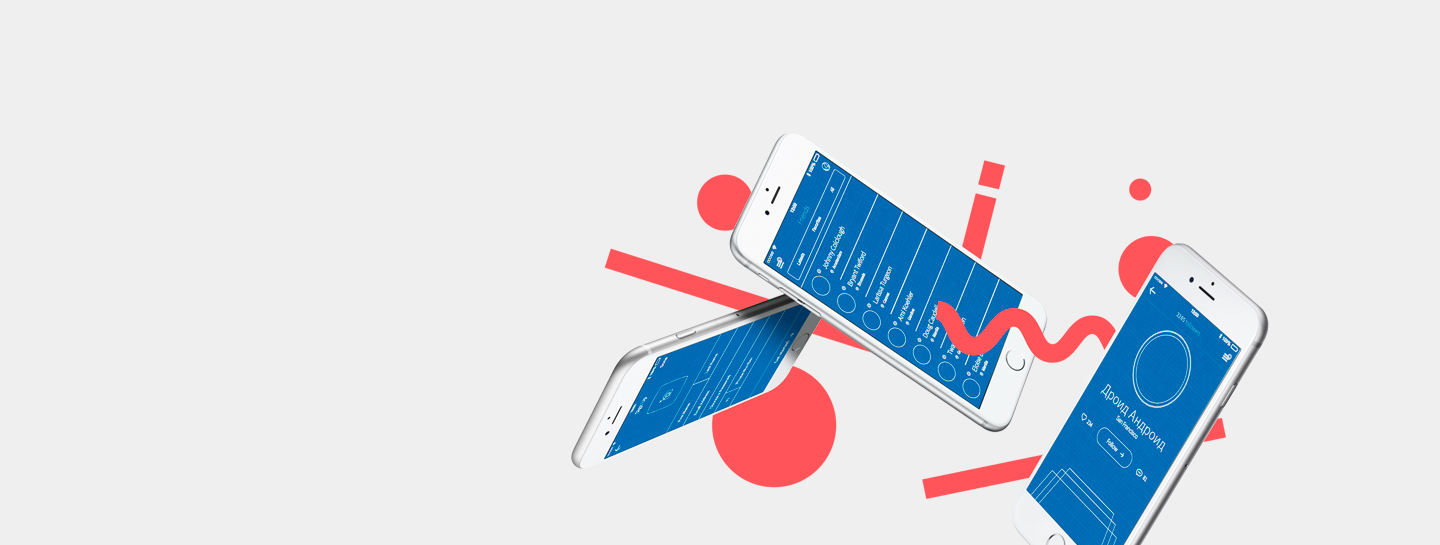
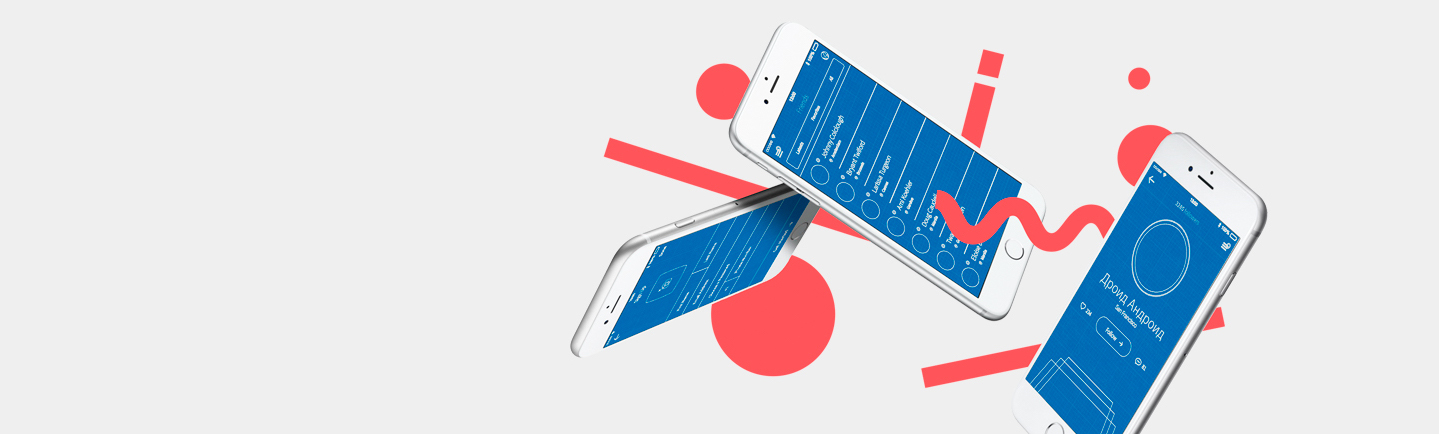
-

Changed region(s): [[0.3975, 0.0899, 0.8867, 1.0], [0.7644, 0.1498, 0.795, 0.2097]]

diff --git a/style.css b/style.css
@@ -520,8 +520,7 @@ header {
   flex-grow: 3;
 }
 .slide{
-  height: 430px;
-  padding-top: 55px;
+  height: 434px;
 }
 .slide a {
   width: 239px;
@@ -543,7 +542,7 @@ header {
   font-size: 55px;
   line-height: calc(55/55);
   margin-left: 140px;
-  margin-top: 45px;
+  padding-top: 65px;
 }
 .slide p {
   font-size: 16px;
@@ -604,9 +603,9 @@ header {
 }
 .radio-btn label{
   position: relative;
-  padding-top: 195px;
+  padding-top: 180px;
   padding-left: 34px;
-  left: 45%;
+  left: 46%;
 }
 .radio-btn label:before{
   position: absolute;

diff --git a/index.html b/index.html
@@ -22,8 +22,6 @@
                 <li class="contacts"><a href="">Контакты</a></li>
                 <li class="basket"><a href="">Корзина</a></li>
              </ul>
-           </nav>
-           <nav>
              <div class="slider">
                 <div class="radio-btn"> 
                  <input type="radio" id="btn-1" name="one-1" checked>
